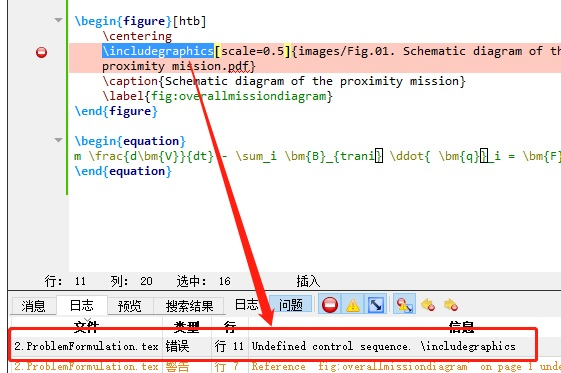
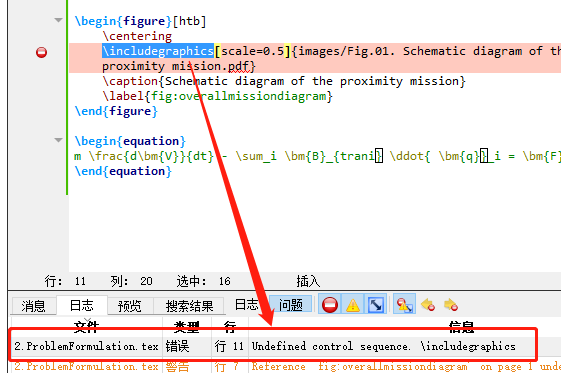
1

Changed region(s): [[0.0606, 0.0, 1.0, 0.5603], [0.0, 0.7668, 1.0, 1.0], [0.4242, 0.6193, 0.4545, 0.7078]]

diff --git a/_posts/2020-07-20-Latex.md b/_posts/2020-07-20-Latex.md
@@ -263,6 +263,20 @@ tar.bz2包文件：
 
 ![image-20200728113741063](..\assets\img\postsimg\20200720\33.jpg)
 
+若编译报错，很可能是没有引入相应的包。在此处，\includegraphics 依赖宏包 graphicx ，需要在文档开头引入
+
+![image-20200729113303006](..\assets\img\postsimg\20200720\40.jpg)
+
+```latex
+\usepackage{graphicx}
+...
+\begin{document}
+...
+\end{document}
+```
+
+
+
 ### visio绘图转为无边框PDF
 
 visio绘图是矢量图，但是无法直接导入LaTeX使用。
